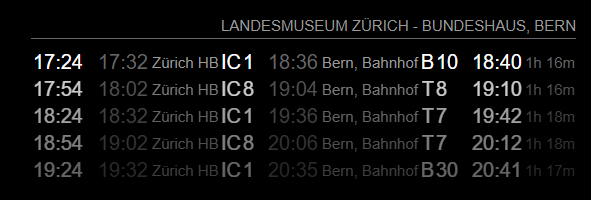
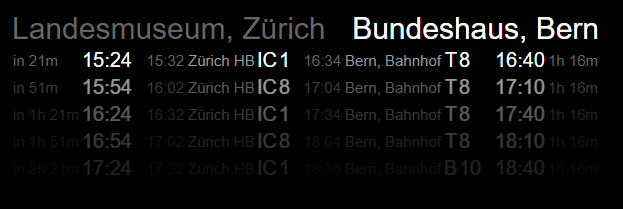
update config docu and screenshots

Changed region(s): [[0.0609, 0.51, 0.9746, 0.9], [0.0, 0.24, 0.9746, 0.48], [0.0, 0.06, 0.9746, 0.21]]

diff --git a/README.md b/README.md
@@ -35,8 +35,10 @@ Edit the `MagicMirror/config/config.js` file:
       position: 'top_right',
       config: {
         timetables: [
-          type: 'stationboard',
-          station: 'Zürich'
+          {
+            type: 'stationboard',
+            station: 'Zürich'
+          }
         ],
       }
     }
@@ -45,6 +47,33 @@ Edit the `MagicMirror/config/config.js` file:
 
 Mandatory configurations for the `stationboard` are:
 - `station` : The station to show all outgoing public transport
+
+Optional configurations can be added at the top level or on the specific timetable entry:
+- `transportations: null`<br>
+  Limit transportation types to one or more of the following:<br>
+  `[ 'train', 'tram', 'ship', 'bus', 'cableway' ]`
+- `limit: 5`<br>
+  Limit displayed number of entries.
+- `opacityFactor: 0.6`<br>
+  Fade out later entries by this factor.
+- `timeFormat: "HH:mm`<br>
+  Time format to display.
+- `showDepartedMinutes: 0`
+  <br>Show already departed connections for x minutes.
+- `showFrom: false`<br>
+  Show the name of the departure station.
+- `showTo: false`<br>
+  Show the name of the final station.
+- `showNextStops: 3`<br>
+  Show the number of next stops.
+- `showWalk: false`<br>
+  Show the walking parts of the connection.
+- `showTimeUntilDeparture: true`<br>
+  Show the relative time until departure (e.g. "in 2m").
+- `showTimeUntilDepartureRedLessThanMinutes: 1`<br>
+  Show the relative time until departure in _red_ when less than x minutes.
+- `showTimeUntilDepartureOrangeLessThanMinutes: 2`<br>
+  Show the relative time until departure in _orange_ when less than x minutes.
 
 ### Connections
 
@@ -58,17 +87,45 @@ Edit the `MagicMirror/config/config.js` file:
       position: 'top_right',
       config: {
         timetables: [
-          type: 'connections',
-          from: 'Landesmuseum, Zürich', // from station or address
-          to: 'Bundeshaus, Bern' // target station or address
+          {
+            type: 'connections',
+            from: 'Landesmuseum, Zürich', // from station or address
+            to: 'Bundeshaus, Bern' // target station or address
+          }
         ],
       }
     }
   ],
 ```
 
-The shown connections will include the estimated walking times.
-Use the `showWalk: true` option to show the details of the walking parts.
+Mandatory configurations for the `connections` are:
+- `from` : The station or address of the start of the journey
+- `to` : The station or address of the end of the journey
+
+Optional configurations can be added at the top level or on the specific timetable entry:
+- `transportations: null`<br>
+  Limit transportation types to one or more of the following:<br>
+  `[ 'train', 'tram', 'ship', 'bus', 'cableway' ]`
+- `limit: 5`<br>
+  Limit displayed number of entries.
+- `opacityFactor: 0.6`<br>
+  Fade out later entries by this factor.
+- `timeFormat: "HH:mm`<br>
+  Time format to display.
+- `showDepartedMinutes: 0`
+  <br>Show already departed connections for x minutes.
+- `showFrom: false`<br>
+  Show the name of the departure station.
+- `showTo: false`<br>
+  Show the name of the final station.
+- `showWalk: false`<br>
+  Show the walking parts of the connection.
+- `showTimeUntilDeparture: true`<br>
+  Show the relative time until departure (e.g. "in 2m").
+- `showTimeUntilDepartureRedLessThanMinutes: 1`<br>
+  Show the relative time until departure in _red_ when less than x minutes.
+- `showTimeUntilDepartureOrangeLessThanMinutes: 2`<br>
+  Show the relative time until departure in _orange_ when less than x minutes.
 
 ### Default Configuration
 
@@ -94,19 +151,19 @@ The following values are the default configuration:
       transportations: [ 'train' ]
     }
   ],
-  limit: 10, // limit requested number of entries (should be at least limitDisplay)
-  transportations: null, // limit transpartation types to some of the following: [ 'train', 'tram', 'ship', 'bus', 'cableway' ]
-  limitDisplay: 5, // limit displayed number of entries
-  opacityFactor: 0.6, // fade out later entries by this factor
-  timeFormat: "HH:mm", // time format to display
-  showFrom: false, // show the name of departure station
-  showTo: false, // show the name of arrival station
-  showWalk: false, // show the walking parts of the connection
-  showNextStops: 3, // show the number of next stops in "stationboard"
-  showTimeUntilDeparture: true, // show the relative time until departure (e.g. "in 2m 15s")
-  showTimeUntilDepartureLessThanMinutes: 60, // show the relative time until departure when less than x minutes
-  showTimeUntilDepartureRedLessThanMinutes: 1, // show the relative time until departure in _red_ when less than x minutes
-  showTimeUntilDepartureOrangeLessThanMinutes: 2 // show the relative time until departure in _orange_ when less than x minutes
+  requestLimit: 10, // Limit requested number of entries (should be at least `limit`)
+  transportations: null, // Limit transportation types to some of the following: [ 'train', 'tram', 'ship', 'bus', 'cableway' ]
+  limit: 5, // Limit displayed number of entries (must be lower or equal to `requestLimit`)
+  opacityFactor: 0.6, // Fade out later entries by this factor
+  timeFormat: "HH:mm", // Time format to display
+  showDepartedMinutes: 0, // Show already departed connections for x minutes
+  showFrom: false, // Show the name of the departure station
+  showTo: false, // Show the name of the final station
+  showWalk: false, // Show the walking parts of the connection
+  showNextStops: 3, // Show the number of next stops in "stationboard"
+  showTimeUntilDeparture: true, // Show the relative time until departure (e.g. "in 2m")
+  showTimeUntilDepartureRedLessThanMinutes: 1, // Show the relative time until departure in _red_ when less than x minutes
+  showTimeUntilDepartureOrangeLessThanMinutes: 2 // Show the relative time until departure in _orange_ when less than x minutes
 ```
 
 ## Screenshots
@@ -115,8 +172,12 @@ The following values are the default configuration:
 
 ```json5
       config: {
-        type: 'stationboard',
-        station: 'Zürich'
+        timetables: [
+          {
+            type: 'stationboard',
+            station: 'Zürich'
+          }
+        ]
       }
 ```
 
@@ -124,21 +185,30 @@ The following values are the default configuration:
 
 ```json5
       config: {
-        type: 'stationboard',
-        station: 'Zürich',
-        showNextStops: 0
+        timetables: [
+          {
+            type: 'stationboard',
+            station: 'Zürich',
+            showNextStops: 0,
+            showTimeUntilDeparture: false
+          }
+        ]
       }
 ```
 
-![](screenshots/screenshot_stationboard_showNextStops=0.png)
+![](screenshots/screenshot_stationboard_custom.png)
 
 ### Connections
 
 ```json5
       config: {
-        type: "connections",
-        from: 'Landesmuseum,Zürich', // from station or address
-        to: 'Bundeshaus,Bern' // target station or address
+        timetables: [
+          {
+            type: "connections",
+            from: 'Landesmuseum, Zürich', // from station or address
+            to: 'Bundeshaus, Bern' // target station or address
+          }
+        ]
       }
 ```
 
@@ -146,13 +216,18 @@ The following values are the default configuration:
 
 ```json5
       config: {
-        type: "connections",
-        from: 'Landesmuseum,Zürich', // from station or address
-        to: 'Bundeshaus,Bern', // target station or address
-        showWalk: true
+        timetables: [
+          {
+            type: "connections",
+            from: 'Landesmuseum, Zürich', // from station or address
+            to: 'Bundeshaus, Bern', // target station or address
+            showWalk: true,
+            showDepartedMinutes: 2
+          }
+        ]
       }
 ```
 
-![](screenshots/screenshot_connections_showWalk.png)
+![](screenshots/screenshot_connections_custom.png)
 
 
